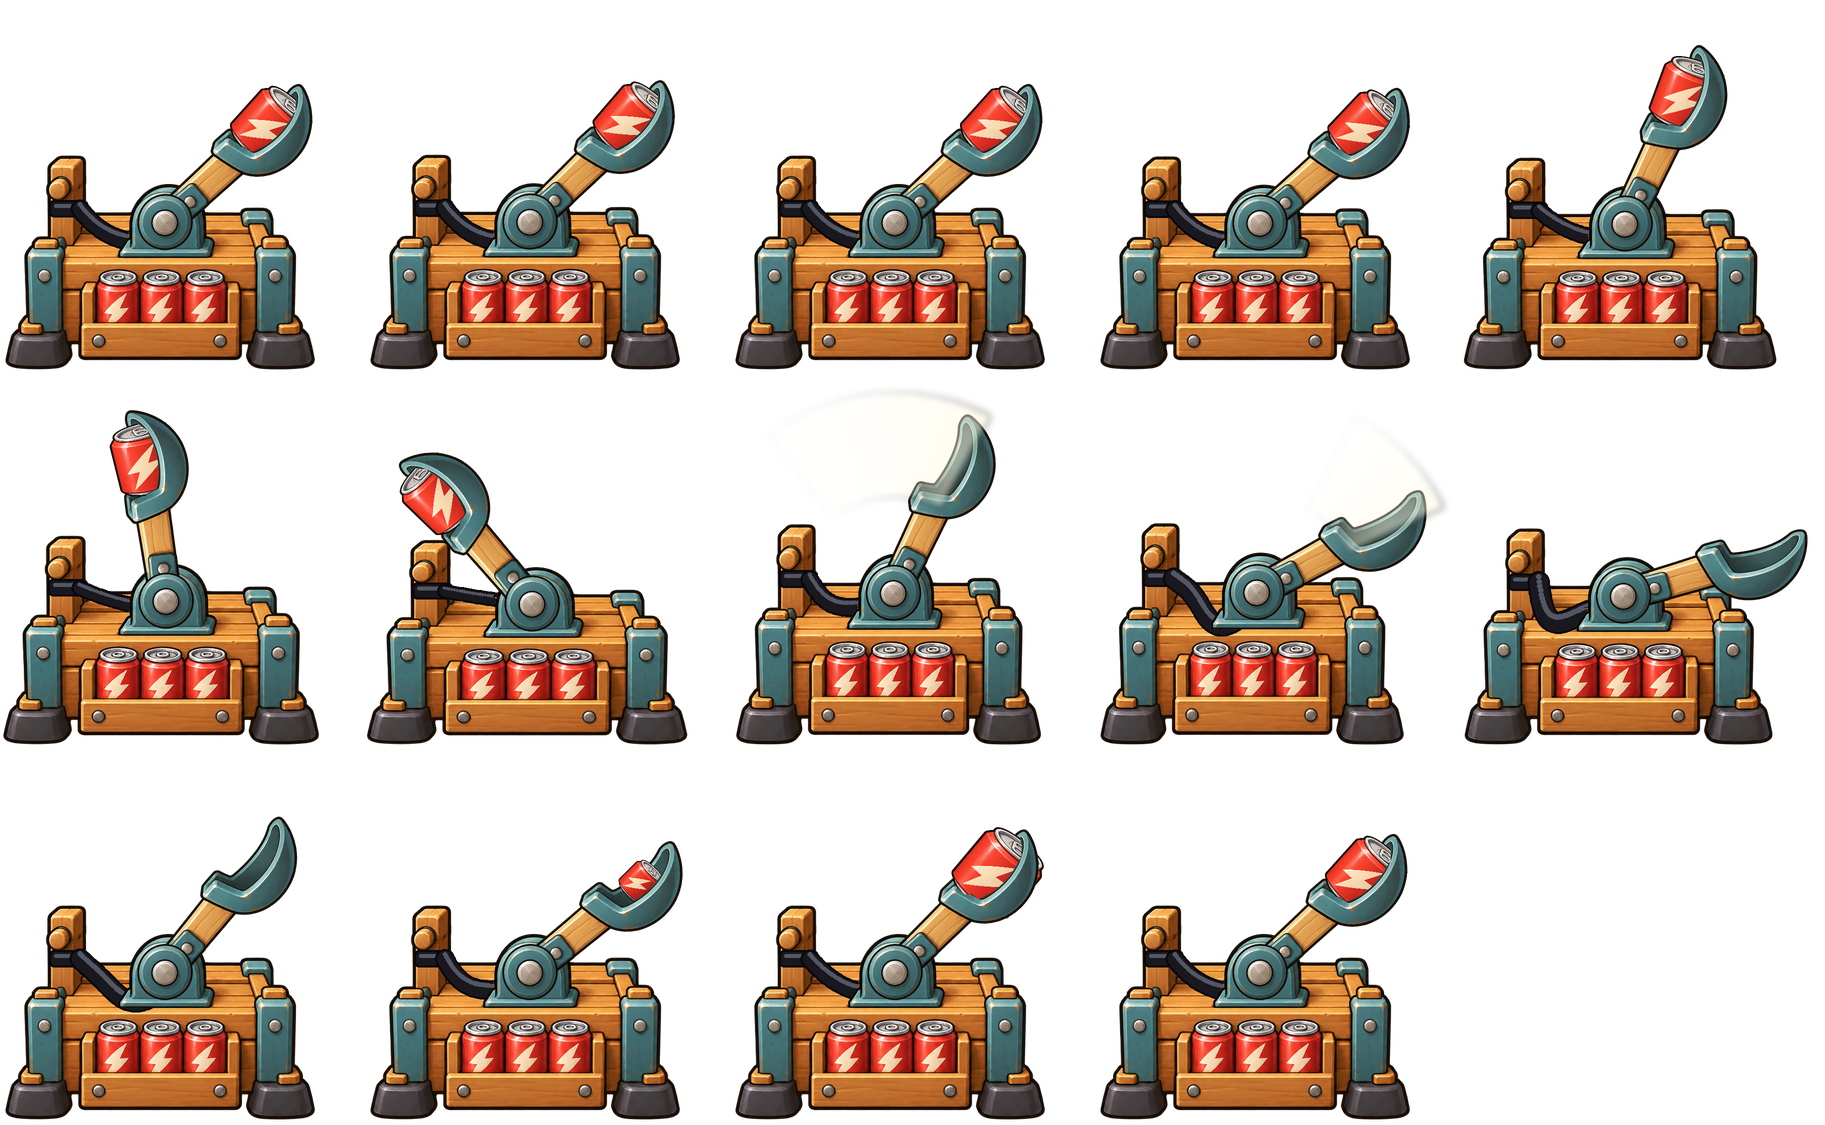
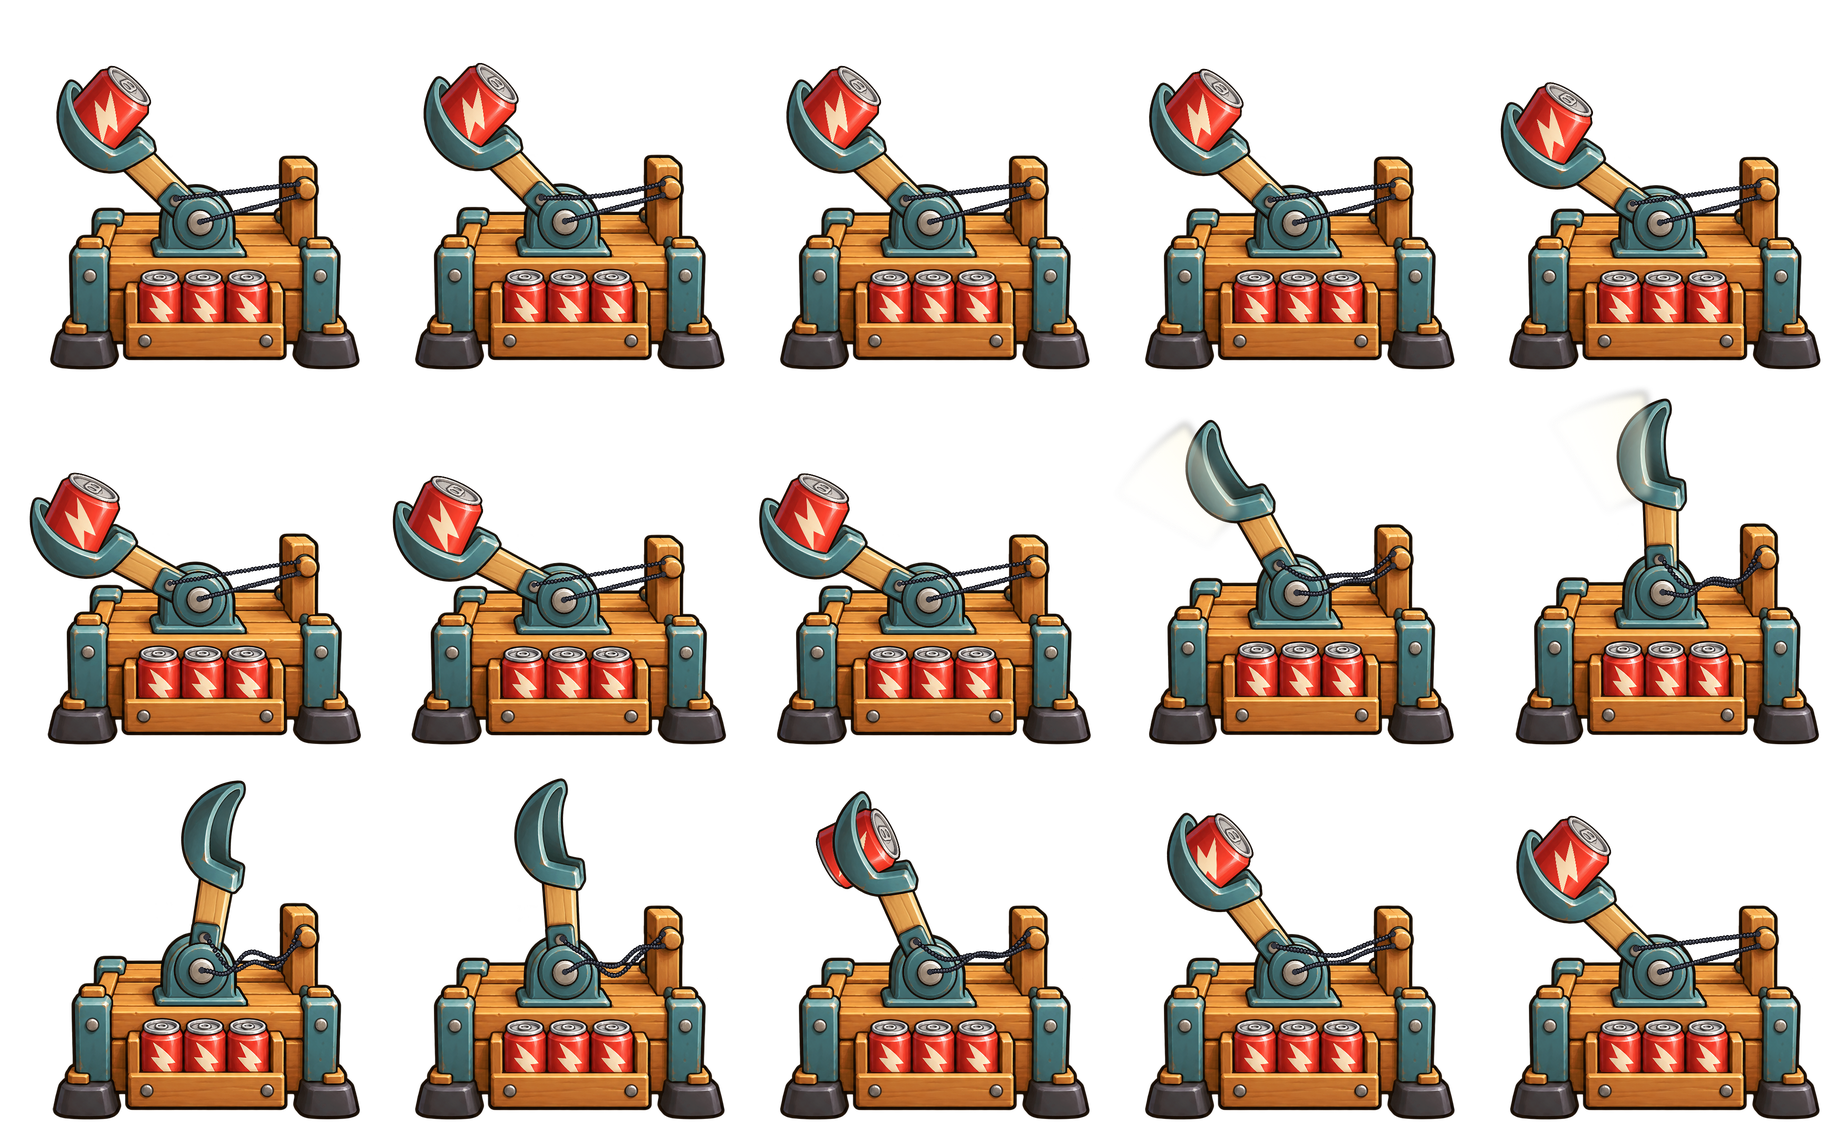
Can Tosser: rework animation to follow reference (cords pull arm, standing can, mirrored for game)
Claude-Session: https://claude.ai/code/session_019aYuPSmDStWHRUCSamkHbW

diff --git a/art/can-tosser/rig.py b/art/can-tosser/rig.py
@@ -1,10 +1,14 @@
 # Can Tosser skeletal rig: composes the 4 hand-painted parts into frames.
-import math, numpy as np
+#
+# The machine is built FACING LEFT (as in the reference): the rear post with the rubber-band anchor is on the launch
+# side, the arm points up and back (right) when it is "ready", the cords pull it forward and the can leaves along the
+# scoop's mouth.  gen_can_anim.py mirrors the finished frames, because the game expects sprites that face right.
+import math, os
+import numpy as np
 from PIL import Image, ImageDraw
 
-import os
 HERE = os.path.join(os.path.dirname(os.path.abspath(__file__)), 'parts')
-P = {k: Image.open(f'{HERE}/{k}.png').convert('RGBA') for k in ('base', 'arm', 'can', 'cap', 'bracket')}
+P = {k: Image.open(f'{HERE}/{k}.png').convert('RGBA') for k in ('base', 'arm', 'can', 'cap')}
 
 # --- rig constants (source-pixel units; base crop is 620x429) ---
 BASE_PIVOT_HOLE = (320, 134)      # axle hole on the base bracket
@@ -13,47 +17,44 @@ ARM_HOLE = (68, 85)               # axle hole at the arm's round end
 ARM_SC = 0.74
 CAN_SC = 0.47
 CAP_SC = 0.41
-SCOOP_LOCAL = (455, 72)           # middle of the bowl's cavity in arm-crop coords: the can sits here and the throw starts here
-CAN_LOCAL_ROT = 82                # can axis relative to the arm (deg, + = clockwise on screen): lid points out along the arm, a touch up
-CAN_SQUASH = 0.72                 # the can is squashed along its axis: the reference can is short and fat, the part sheet's is tall
+
+# The can STANDS in the cup: its axis is the scoop's mouth direction (arm-local "up"), lid outward, bottom behind the near rim.
+CAN_CENTER = (455, 22)            # arm-crop coords: centre of the can when it sits in the cup
+CAN_LOCAL_ROT = 0                 # can image already has its lid "up" = the mouth direction
+CAN_SQUASH = 0.78                 # reference can is short and fat; the part sheet's can is tall
+MUZZLE_PUSH = 70                  # arm-crop px along the mouth direction: where the can is when it leaves the cup
 # outline of everything that stands IN FRONT of the can (bowl's end wall + the near rim and shell), arm-crop coords
 FRONT_POLY = [(280, 0), (344, 0), (346, 55), (361, 66), (367, 90), (380, 94), (410, 101), (450, 102), (490, 94), (530, 82),
               (552, 58), (566, 32), (580, 8), (600, 8), (600, 200), (280, 200)]
 
-POST_ANCHOR = (150, 108)          # where the rubber band wraps round the rear post (base coords)
-POST_STRAP = (92, 94, 162, 120)   # strap drawn across the post: x0, y0, x1, y1
-ARM_ANCHOR = (40, 118)            # band hooks onto the back of the arm's hub (arm coords), so pulling the arm back stretches it
-BAND_COL, BAND_OUT, BAND_HI = (24, 24, 30), (8, 8, 12), (84, 86, 100)
+# Two rubber cords from the rear post's knob: one to the rivet on the arm, one to the pivot hub.
+CORD_UP = dict(post=(124, 58), arm=(158, 82))       # post: base coords, arm: arm-crop coords
+CORD_LO = dict(post=(124, 82), arm=ARM_HOLE)
+CORD_COL, CORD_OUT, CORD_HI = (52, 54, 64), (14, 14, 20), (130, 134, 150)
+REST_DEG = -42.0                  # "ready" pose; the cords are exactly taut here
 
 S = 0.5                           # world -> output px
 SS = 2                            # supersample
 WX0, WY0, WX1, WY1 = -10, -310, 720, 440
 FW, FH = round((WX1 - WX0) * S), round((WY1 - WY0) * S)
 K = S * SS
-K_ = K; rig_x0, rig_y0 = WX0, WY0
 
 def _M(anchor_local, anchor_world, rot_deg, scale, sx=1.0, sy=1.0):
     """PIL AFFINE coeffs mapping output px -> input px."""
     th = math.radians(rot_deg); c, s = math.cos(th), math.sin(th)
-    # world = aw + R * D * (local - al),  D = scale*diag(sx,sy)
     D = np.array([[scale * sx, 0], [0, scale * sy]])
     R = np.array([[c, -s], [s, c]])
     A = R @ D                           # local->world linear
     Ai = np.linalg.inv(A)
-    # output px (u,v) -> world: w = (u/K + WX0, v/K + WY0)
-    # local = al + Ai (w - aw)
     al = np.array(anchor_local, float); aw = np.array(anchor_world, float)
     lin = Ai / K                        # d local / d(u,v)
     off = al + Ai @ (np.array([WX0, WY0], float) - aw)
     return (lin[0, 0], lin[0, 1], off[0], lin[1, 0], lin[1, 1], off[1])
 
-def place(canvas, key, anchor_local, anchor_world, rot=0, scale=1, sx=1, sy=1, alpha=1.0, img=None):
+def place(canvas, key, anchor_local, anchor_world, rot=0, scale=1, sx=1, sy=1, img=None):
     im = (img or P[key]).convert('RGBa')
     out = im.transform(canvas.size, Image.AFFINE, _M(anchor_local, anchor_world, rot, scale, sx, sy), resample=Image.BICUBIC)
-    out = out.convert('RGBA')
-    if alpha < 1:
-        a = np.array(out); a[..., 3] = (a[..., 3] * alpha).astype(np.uint8); out = Image.fromarray(a)
-    canvas.alpha_composite(out)
+    canvas.alpha_composite(out.convert('RGBA'))
 
 def world_of(local, anchor_local, anchor_world, rot, scale, sx=1, sy=1):
     th = math.radians(rot); c, s = math.cos(th), math.sin(th)
@@ -62,69 +63,6 @@ def world_of(local, anchor_local, anchor_world, rot, scale, sx=1, sy=1):
 
 def to_px(w):  # world -> output px (not supersampled)
     return ((w[0] - WX0) * S, (w[1] - WY0) * S)
-
-def _band(cv, a_w, b_w, tension, wobble):
-    """Black elastic from the post to the arm.  tension 0 = slack and sagging, 1 = taut and thin; wobble = snap-back ripple."""
-    K, n = K_, 40
-    ax, ay = a_w; bx, by = b_w
-    L = math.hypot(bx - ax, by - ay) or 1
-    nx, ny = -(by - ay) / L, (bx - ax) / L
-    if ny < 0: nx, ny = -nx, -ny                          # sag downwards
-    sag = (1 - tension) * 46 + 4
-    pts = []
-    for i in range(n + 1):
-        u = i / n
-        off = 4 * u * (1 - u) * sag + wobble * 26 * math.sin(u * math.pi * 2) * (1 - tension * .6)
-        pts.append(((ax + (bx - ax) * u + nx * off - rig_x0) * K, (ay + (by - ay) * u + ny * off - rig_y0) * K))
-    w = (36 - 16 * tension) * K / 2
-    lay = Image.new('RGBA', cv.size, (0, 0, 0, 0)); d = ImageDraw.Draw(lay)
-    for px, py in pts: d.ellipse((px - w - 4 * K, py - w - 4 * K, px + w + 4 * K, py + w + 4 * K), fill=BAND_OUT + (255,))
-    for px, py in pts: d.ellipse((px - w, py - w, px + w, py + w), fill=BAND_COL + (255,))
-    for px, py in pts: d.ellipse((px - w * .28, py - w * .62 - w * .28, px + w * .28, py - w * .62 + w * .28), fill=BAND_HI + (255,))
-    cv.alpha_composite(lay)
-
-def _strap(cv, foot_w, sx, sy):
-    x0, y0, x1, y1 = POST_STRAP
-    c = [world_of(p, BASE_FOOT, foot_w, 0, 1, sx, sy) for p in ((x0, y0), (x1, y0), (x1, y1), (x0, y1))]
-    pc = [((x - rig_x0) * K_, (y - rig_y0) * K_) for x, y in c]
-    lay = Image.new('RGBA', cv.size, (0, 0, 0, 0)); d = ImageDraw.Draw(lay)
-    d.rounded_rectangle((pc[0][0] - 4 * K_, pc[0][1] - 4 * K_, pc[2][0] + 4 * K_, pc[2][1] + 4 * K_), radius=10 * K_, fill=BAND_OUT + (255,))
-    d.rounded_rectangle((pc[0][0], pc[0][1], pc[2][0], pc[2][1]), radius=7 * K_, fill=BAND_COL + (255,))
-    d.rounded_rectangle((pc[0][0] + 6 * K_, pc[0][1] + 4 * K_, pc[2][0] - 6 * K_, pc[0][1] + 11 * K_), radius=3 * K_, fill=BAND_HI + (255,))
-    cv.alpha_composite(lay)
-
-def render(arm_deg=-38, base_dx=0, base_dy=0, base_sx=1, base_sy=1, can=True, can_sc=1.0, can_dy=0,
-           cap_extra=0, extra=None, band=(.45, 0.0)):
-    cv = Image.new('RGBA', (FW * SS, FH * SS), (0, 0, 0, 0))
-    # base squashes about its feet
-    foot_w = (BASE_FOOT[0] + base_dx, BASE_FOOT[1] + base_dy)
-    place(cv, 'base', BASE_FOOT, foot_w, 0, 1, base_sx, base_sy)
-    # axle follows the squashed base
-    hole_w = world_of(BASE_PIVOT_HOLE, BASE_FOOT, foot_w, 0, 1, base_sx, base_sy)
-    # rubber band: post -> behind the pivot bracket -> hooked under the arm
-    _strap(cv, foot_w, base_sx, base_sy)
-    a_w = world_of(POST_ANCHOR, BASE_FOOT, foot_w, 0, 1, base_sx, base_sy)
-    b_w = world_of(ARM_ANCHOR, ARM_HOLE, hole_w, arm_deg, ARM_SC)
-    _band(cv, a_w, b_w, band[0], band[1])
-    place(cv, 'bracket', BASE_FOOT, foot_w, 0, 1, base_sx, base_sy)       # bracket hides the middle of the band
-    place(cv, 'arm', ARM_HOLE, hole_w, arm_deg, ARM_SC)
-    scoop_w = world_of(SCOOP_LOCAL, ARM_HOLE, hole_w, arm_deg, ARM_SC)
-    can_w = None
-    if can:
-        can_w = (scoop_w[0], scoop_w[1] + can_dy)
-        cl = Image.new('RGBA', cv.size, (0, 0, 0, 0))
-        place(cl, 'can', (141, 215), can_w, arm_deg + CAN_LOCAL_ROT, CAN_SC * can_sc, 1.0, CAN_SQUASH)
-        # the bowl's end wall and near rim hide the part of the can that sits inside the bowl
-        ml = Image.new('RGBA', cv.size, (0, 0, 0, 0))
-        place(ml, None, ARM_HOLE, hole_w, arm_deg, ARM_SC, img=_front_mask())
-        a = np.array(cl); m = np.array(ml)[..., 3].astype(np.float32) / 255
-        a[..., 3] = (a[..., 3] * (1 - m)).astype(np.uint8)
-        cv.alpha_composite(Image.fromarray(a))
-    place(cv, 'cap', (136, 137), hole_w, arm_deg * 0.0 + cap_extra, CAP_SC)
-    if extra: extra(cv)
-    fr = cv.resize((FW, FH), Image.LANCZOS)
-    info = dict(foot=to_px(foot_w), scoop=to_px(scoop_w), hole=to_px(hole_w))
-    return fr, info
 
 _FRONT = None
 def _front_mask():
@@ -137,6 +75,76 @@ def _front_mask():
         out = np.zeros((arm.height, arm.width, 4), np.uint8); out[..., :3] = 255; out[..., 3] = a
         _FRONT = Image.fromarray(out)
     return _FRONT
+
+def _cord_pts(a_w, b_w, rest_len, wobble, n=36):
+    """Points along a cord of length ~rest_len between a_w and b_w: straight when taut, sagging when the ends come closer."""
+    ax, ay = a_w; bx, by = b_w
+    L = math.hypot(bx - ax, by - ay) or 1
+    stretch = L / rest_len - 1                      # > 0: stretched, < 0: slack
+    sag = math.sqrt(max(0.0, .375 * rest_len * max(0.0, rest_len - L))) if stretch < 0 else 0.0
+    sag = min(sag, 90)
+    nx, ny = -(by - ay) / L, (bx - ax) / L
+    if ny < 0: nx, ny = -nx, -ny                    # sag downwards
+    pts = []
+    for i in range(n + 1):
+        u = i / n
+        off = 4 * u * (1 - u) * sag + wobble * 20 * math.sin(u * math.pi * 3) * (1 - abs(2 * u - 1) ** 2)
+        pts.append((ax + (bx - ax) * u + nx * off, ay + (by - ay) * u + ny * off))
+    return pts, stretch
+
+def _draw_cord(cv, a_w, b_w, rest_len, wobble):
+    pts, stretch = _cord_pts(a_w, b_w, rest_len, wobble)
+    w = max(3.2, 5.2 - 22 * max(0, stretch)) * K / 2           # a stretched cord gets thinner
+    px = [((x - WX0) * K, (y - WY0) * K) for x, y in pts]
+    lay = Image.new('RGBA', cv.size, (0, 0, 0, 0)); d = ImageDraw.Draw(lay)
+    for x, y in px: d.ellipse((x - w - 2 * K, y - w - 2 * K, x + w + 2 * K, y + w + 2 * K), fill=CORD_OUT + (255,))
+    for x, y in px: d.ellipse((x - w, y - w, x + w, y + w), fill=CORD_COL + (255,))
+    for x, y in px: d.ellipse((x - w * .3, y - w * .45 - w * .3, x + w * .3, y - w * .45 + w * .3), fill=CORD_HI + (255,))
+    for (x, y) in (px[0], px[-1]):                               # knots at both ends
+        r = w * 1.9
+        d.ellipse((x - r - K, y - r - K, x + r + K, y + r + K), fill=CORD_OUT + (255,)); d.ellipse((x - r, y - r, x + r, y + r), fill=CORD_COL + (255,))
+    cv.alpha_composite(lay)
+
+def _rest_lengths():
+    foot_w = BASE_FOOT; hole_w = BASE_PIVOT_HOLE
+    out = []
+    for c in (CORD_UP, CORD_LO):
+        a = world_of(c['post'], BASE_FOOT, foot_w, 0, 1)
+        b = world_of(c['arm'], ARM_HOLE, hole_w, REST_DEG, ARM_SC)
+        out.append(math.hypot(b[0] - a[0], b[1] - a[1]))
+    return out
+REST_LEN = _rest_lengths()
+
+def render(arm_deg=REST_DEG, base_dx=0, base_dy=0, base_sx=1, base_sy=1, can=True, can_slide=0, can_dy=0,
+           extra=None, wobble=0.0):
+    """can_slide: arm-crop px the can is displaced along the mouth direction (negative = out of the cup, positive = down into it)."""
+    cv = Image.new('RGBA', (FW * SS, FH * SS), (0, 0, 0, 0))
+    foot_w = (BASE_FOOT[0] + base_dx, BASE_FOOT[1] + base_dy)          # base squashes about its feet
+    place(cv, 'base', BASE_FOOT, foot_w, 0, 1, base_sx, base_sy)
+    hole_w = world_of(BASE_PIVOT_HOLE, BASE_FOOT, foot_w, 0, 1, base_sx, base_sy)   # axle follows the squashed base
+    place(cv, 'arm', ARM_HOLE, hole_w, arm_deg, ARM_SC)
+    if can:
+        cx, cy = CAN_CENTER[0], CAN_CENTER[1] + can_slide
+        can_w = world_of((cx, cy), ARM_HOLE, hole_w, arm_deg, ARM_SC)
+        cl = Image.new('RGBA', cv.size, (0, 0, 0, 0))
+        place(cl, 'can', (141, 215), (can_w[0], can_w[1] + can_dy), arm_deg + CAN_LOCAL_ROT, CAN_SC, 1.0, CAN_SQUASH)
+        # the bowl's end wall and near rim hide the part of the can that stands inside the bowl
+        ml = Image.new('RGBA', cv.size, (0, 0, 0, 0))
+        place(ml, None, ARM_HOLE, hole_w, arm_deg, ARM_SC, img=_front_mask())
+        a = np.array(cl); m = np.array(ml)[..., 3].astype(np.float32) / 255
+        a[..., 3] = (a[..., 3] * (1 - m)).astype(np.uint8)
+        cv.alpha_composite(Image.fromarray(a))
+    place(cv, 'cap', (136, 137), hole_w, 0, CAP_SC)
+    # the two cords sit on top of everything: post knob -> arm rivet, post knob -> pivot hub
+    for c, rl in zip((CORD_UP, CORD_LO), REST_LEN):
+        a_w = world_of(c['post'], BASE_FOOT, foot_w, 0, 1, base_sx, base_sy)
+        b_w = world_of(c['arm'], ARM_HOLE, hole_w, arm_deg, ARM_SC)
+        _draw_cord(cv, a_w, b_w, rl, wobble)
+    if extra: extra(cv)
+    fr = cv.resize((FW, FH), Image.LANCZOS)
+    muzzle_w = world_of((CAN_CENTER[0], CAN_CENTER[1] - MUZZLE_PUSH), ARM_HOLE, hole_w, arm_deg, ARM_SC)
+    info = dict(foot=to_px(foot_w), muzzle=to_px(muzzle_w), hole=to_px(hole_w))
+    return fr, info
 
 if __name__ == '__main__':
     fr, info = render()

diff --git a/art/can-tosser/gen_can_anim.py b/art/can-tosser/gen_can_anim.py
@@ -3,32 +3,33 @@
 # Needs Pillow + numpy.  Tweak the FIRE / IDLE tables below to change the motion, then re-run and rebuild.
 import sys, json, math, os
 import numpy as np
-from PIL import Image, ImageDraw, ImageFilter
+from PIL import Image, ImageDraw, ImageFilter, ImageOps
 import rig
 from rig import FW, FH
 
 OUT = sys.argv[1] if len(sys.argv) > 1 else os.path.join(os.path.dirname(os.path.abspath(__file__)), '..')
 
-# Motion (sprite faces RIGHT = the way the can is thrown).  The can lies along the arm and slides out of the scoop's far
-# end, so the arm has to swing FORWARD (clockwise) toward the target: first it is pulled back over the pivot, which
-# stretches the black rubber band (hooked to the back of the hub), then the band snaps it forward and the can leaves
-# along the arm.  Rubber band: tension 0 = slack and sagging, 1 = taut and thin; wobble = ripple after the snap.
-# IDLE : (arm_deg, can_dy, base_sy, band_tension)
-IDLE = [(-40.0, 0, 1.000, .42), (-41.4, -2, 1.004, .40), (-40.0, 0, 1.000, .42), (-38.6, 1, 0.996, .44)]
-# FIRE : ms, arm_deg, base_dx, base_sx, base_sy, can_in_scoop, can_scale, smear_from_deg, band_tension, band_wobble
+# Motion.  The machine is built facing LEFT (rig.py) and every frame is mirrored at the end, because the game wants sprites
+# that face RIGHT.  Angles are native (screen degrees, clockwise positive).  Sequence = the reference GIF:
+#   pull the arm back (cords stretch, thin and taut) -> release: the cords snap the arm forward and the standing can leaves
+#   along the scoop's mouth -> arm overshoots, cords go slack and ripple -> returns, a new can rises into the cup.
+# IDLE : (arm_deg, can_dy, base_sy)
+IDLE = [(-42.0, 0, 1.000), (-43.2, -1, 1.004), (-42.0, 0, 1.000), (-40.8, 1, 0.996)]
+# FIRE : ms, arm_deg, base_dx, base_sx, base_sy, can_in_cup, can_slide, smear_from_deg, cord_wobble
 FIRE = [
-  (50,  -62,  0, 1.010, 0.990, True, 1.0, None, .62, 0.0),   # start pulling the arm back
-  (55,  -96,  2, 1.020, 0.975, True, 1.0, None, .85, 0.0),
-  (70, -128,  4, 1.035, 0.955, True, 1.0, None, 1.0, 0.0),   # fully cocked: band taut and thin
-  (30,  -62, -3, 0.985, 1.030, False, 1.0, -128, .45, .5),   # RELEASE: band snaps the arm forward, can leaves along it
-  (35,  -26, -6, 0.980, 1.035, False, 1.0, -62, .10, -.8),
-  (45,  -14, -3, 0.995, 1.010, False, 1.0, None, .00, .9),   # overshoot forward, band slack and rippling
-  (50,  -48,  0, 1.000, 1.000, False, 1.0, None, .15, -.5),
-  (55,  -37,  0, 1.000, 1.000, True, 0.55, None, .35, .25),  # next can pops into the scoop
-  (55,  -42,  0, 1.000, 1.000, True, 1.12, None, .42, -.1),
-  (45,  -40,  0, 1.000, 1.000, True, 1.0, None, .42, 0.0),
+  (45,  -33,  0, 1.006, 0.994, True,   0, None, 0.0),    # pull back, cords stretch
+  (45,  -26,  1, 1.012, 0.986, True,   0, None, 0.0),
+  (55,  -25,  2, 1.016, 0.980, True,   0, None, 0.0),    # fully drawn, cords taut and thin
+  (30,  -26,  2, 1.014, 0.982, True,   0, None, 0.0),    # hold
+  (30,  -58, -3, 0.985, 1.030, False,  0, -30, 0.4),     # RELEASE: cords snap the arm, can leaves along the mouth
+  (35,  -86, -5, 0.980, 1.034, False,  0, -58, 0.7),
+  (40,  -97, -3, 0.992, 1.012, False,  0, None, 1.0),    # overshoot, cords slack and rippling
+  (40,  -84,  0, 1.000, 1.000, False,  0, None, -0.7),
+  (45,  -64,  0, 1.000, 1.000, True,  90, None, 0.5),    # new can rises into the cup at constant size
+  (45,  -50,  0, 1.000, 1.000, True,  35, None, -0.25),
+  (50,  -42,  0, 1.000, 1.000, True,   0, None, 0.0),
 ]
-RELEASE = 3
+RELEASE = 4
 
 def smear(a0, a1):
     def f(cv):
@@ -38,7 +39,7 @@ def smear(a0, a1):
         lay = Image.new('RGBA', cv.size, (0, 0, 0, 0)); ld = ImageDraw.Draw(lay)
         r0, r1 = 200 * K, 410 * K
         n = 12
-        for i in range(n):   # trailing wedge: faint at the start angle, stronger near the scoop
+        for i in range(n):   # trailing wedge: faint at the start angle, stronger at the arm
             t0, t1 = i / n, (i + 1) / n
             A0 = math.radians(a0 + (a1 - a0) * t0); A1 = math.radians(a0 + (a1 - a0) * t1)
             pts = [(cx + r1 * math.cos(A0), cy + r1 * math.sin(A0)), (cx + r1 * math.cos(A1), cy + r1 * math.sin(A1)),
@@ -48,17 +49,20 @@ def smear(a0, a1):
         cv.alpha_composite(lay)
     return f
 
-def pose(arm, dx=0, sx=1, sy=1, can=True, can_sc=1.0, sm=None, can_dy=0, band=(.42, 0)):
+def pose(arm, dx=0, sx=1, sy=1, can=True, slide=0, sm=None, can_dy=0, wob=0.0):
     ex = smear(sm, arm) if sm is not None else None
-    return rig.render(arm_deg=arm, base_dx=dx, base_sx=sx, base_sy=sy, can=can, can_sc=can_sc, can_dy=can_dy, extra=ex, band=band)
+    fr, info = rig.render(arm_deg=arm, base_dx=dx, base_sx=sx, base_sy=sy, can=can, can_slide=slide, can_dy=can_dy, extra=ex, wobble=wob)
+    fr = ImageOps.mirror(fr)                                   # native left-facing -> game's right-facing
+    mz = (FW - info['muzzle'][0], info['muzzle'][1])
+    return fr, mz
 
 frames, durs, muz, names = [], [], [], []
-for arm, cdy, sy, tn in IDLE:
-    fr, info = pose(arm, sy=sy, can_dy=cdy, band=(tn, 0)); frames.append(fr); durs.append(170); muz.append(info['scoop']); names.append('idle')
-for ms, arm, dx, sx, sy, can, csc, sm, tn, wb in FIRE:
-    fr, info = pose(arm, dx, sx, sy, can, csc, sm, band=(tn, wb)); frames.append(fr); durs.append(ms); muz.append(info['scoop']); names.append('fire')
-foot = info['foot']  # fixed ground point (unsquashed foot)
-foot = rig.to_px(rig.BASE_FOOT)
+for arm, cdy, sy in IDLE:
+    fr, mz = pose(arm, sy=sy, can_dy=cdy); frames.append(fr); durs.append(170); muz.append(mz); names.append('idle')
+for ms, arm, dx, sx, sy, can, sl, sm, wb in FIRE:
+    fr, mz = pose(arm, dx, sx, sy, can, sl, sm, wob=wb); frames.append(fr); durs.append(ms); muz.append(mz); names.append('fire')
+ft = rig.to_px(rig.BASE_FOOT)
+foot = (FW - ft[0], ft[1])
 
 # ---- sheet (grid) ----
 COLS = 5
